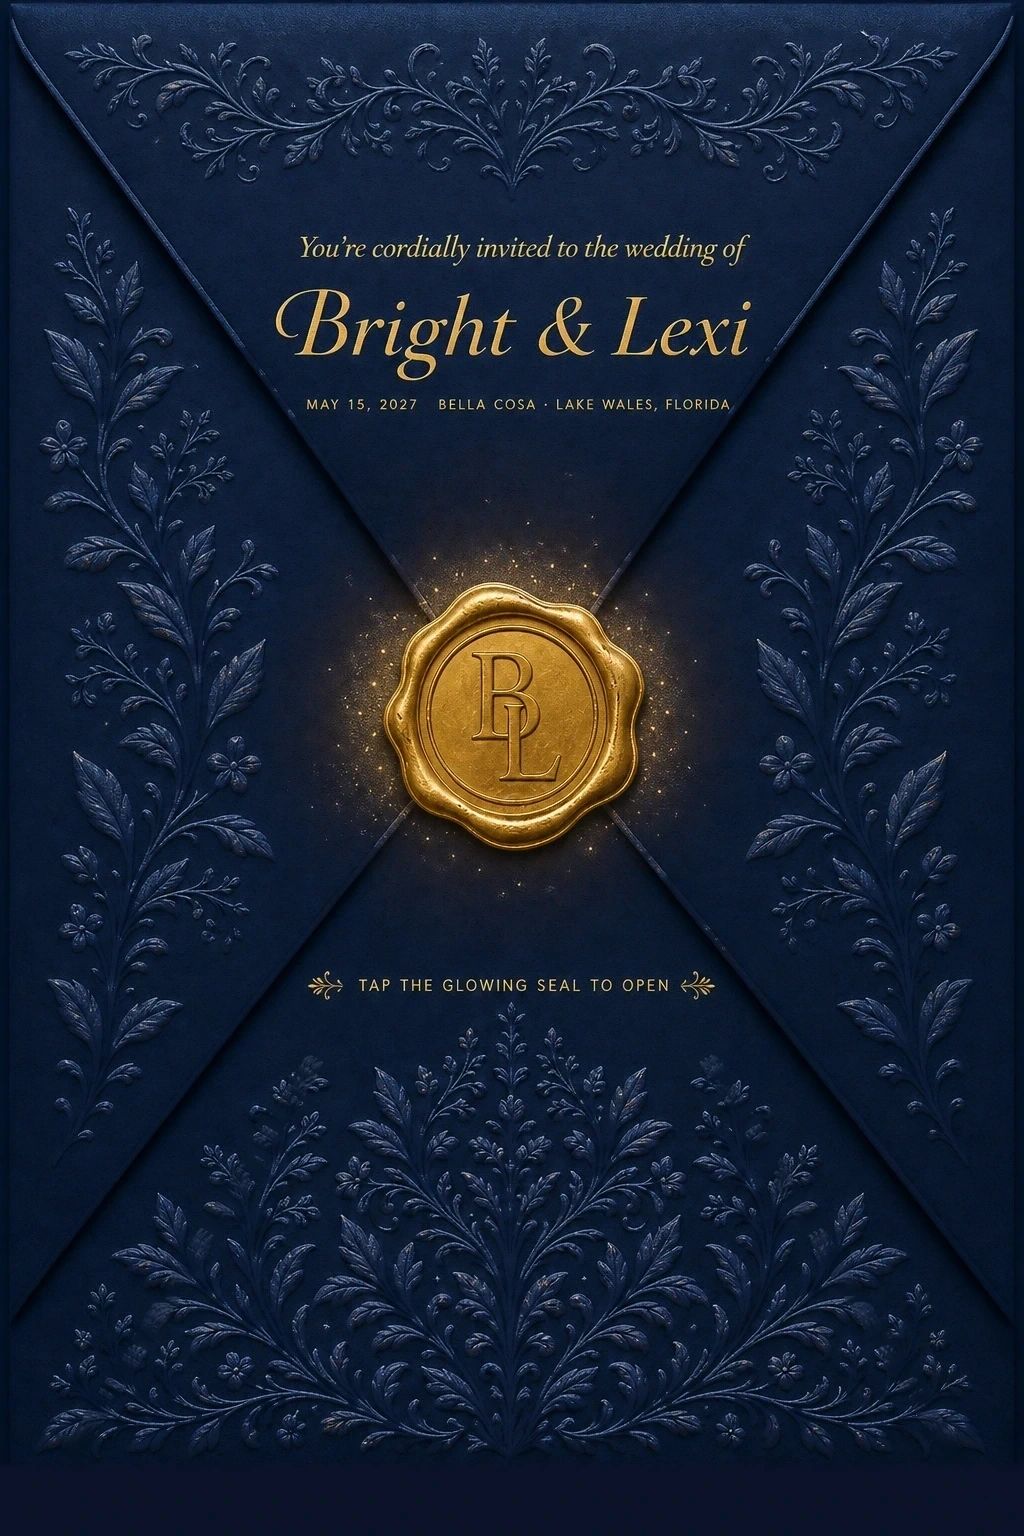
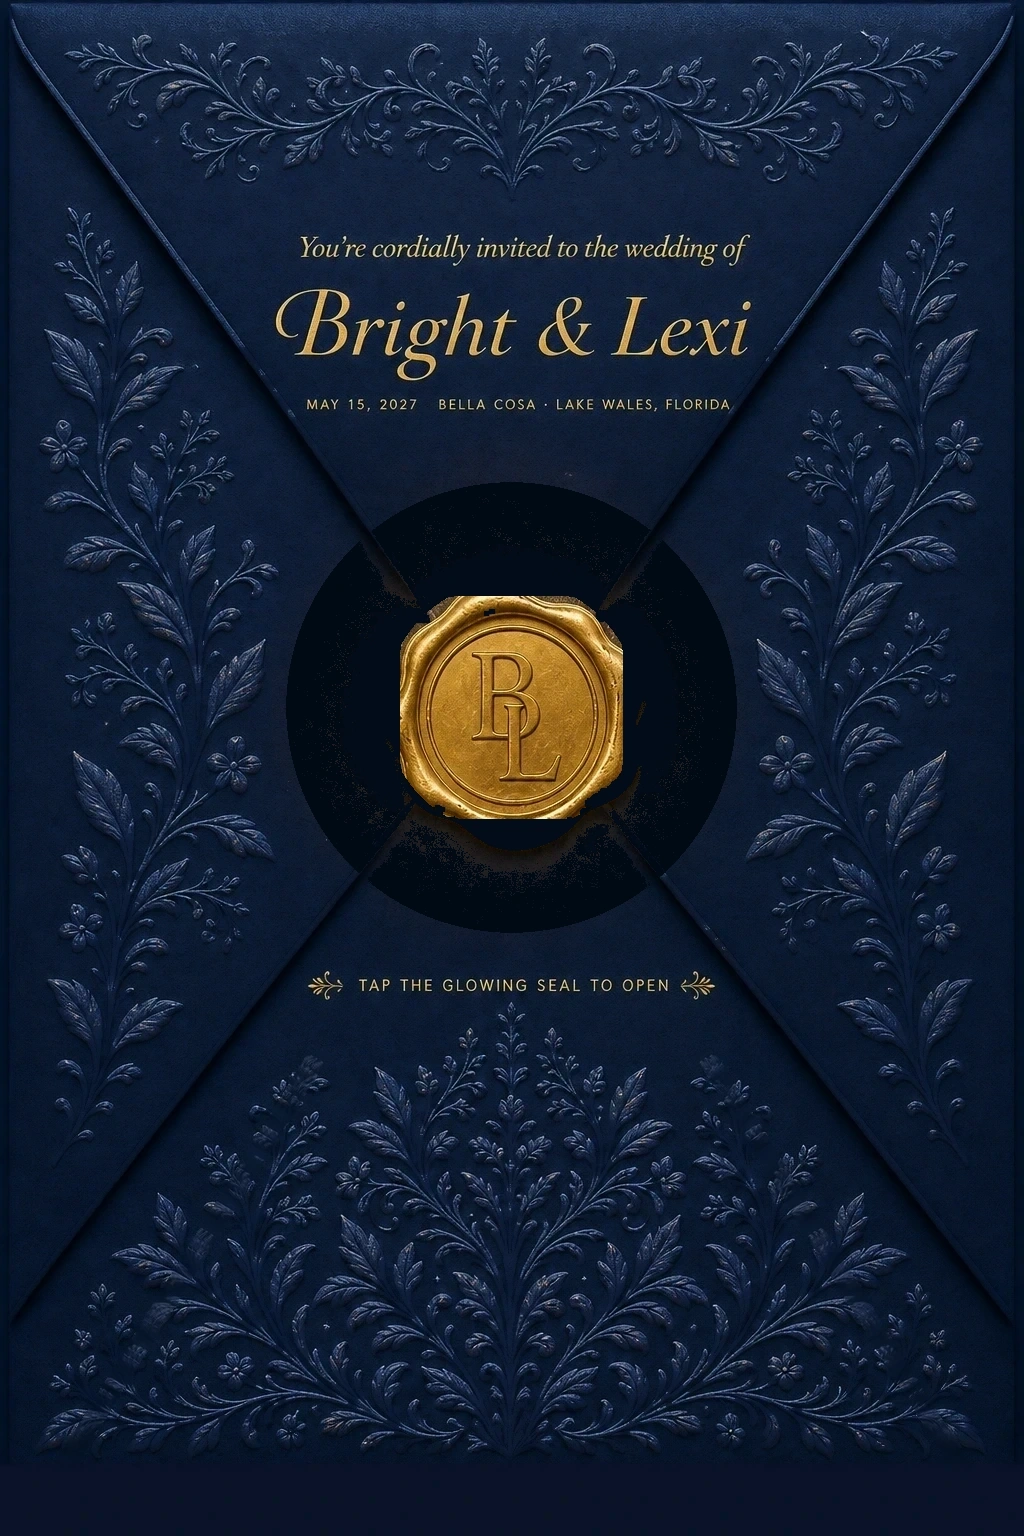
Restore top/bottom emboss glow and remove seal glitter
Restore floral glow coverage from the pre-crease-scrub baseline so the
top crest and bottom florals light fully to the outer edges, boost those
zones, and widen the CSS radial reveal. Scrub glitter spray from the
closed master and seal monogram overlay while protecting the wax disc,
and tighten the monogram mask so glow stays on the seal.

Changed region(s): [[0.2812, 0.3125, 0.7188, 0.625]]

diff --git a/app/globals.css b/app/globals.css
@@ -391,15 +391,15 @@
     pointer-events: none;
     z-index: 2;
     filter: none;
-    /* Only shave the razor top edge — keep the top embossed crest */
-    clip-path: inset(0.35% 0 0 0);
+    /* Keep full top crest visible — do not clip emboss tips */
+    clip-path: none;
     -webkit-mask-image: radial-gradient(
       circle,
       #000 0%,
-      #000 72%,
+      #000 88%,
       transparent 100%
     );
-    mask-image: radial-gradient(circle, #000 0%, #000 72%, transparent 100%);
+    mask-image: radial-gradient(circle, #000 0%, #000 88%, transparent 100%);
     -webkit-mask-repeat: no-repeat;
     mask-repeat: no-repeat;
     -webkit-mask-position: var(--intro-seal-x, 49.91%) var(--intro-seal-y, 46.08%);
@@ -416,8 +416,9 @@
     opacity: 1;
     /* Bright gold on emboss overlay only — paper stays unfiltered */
     filter: brightness(1.55) saturate(1.25) contrast(1.08);
-    -webkit-mask-size: 300% 300%;
-    mask-size: 300% 300%;
+    /* Oversized so top crest + bottom florals fully clear the fade edge */
+    -webkit-mask-size: 360% 360%;
+    mask-size: 360% 360%;
   }
 
   .envelope-floral-glow-face.is-lit {
@@ -533,18 +534,18 @@
   }
 
   .intro-monogram-glow.is-lit {
-    opacity: 0.96;
-    filter: brightness(1.08) saturate(1.08);
-    /* Wide enough to cover the full wax disc in the master art */
-    -webkit-mask-size: 42% 30%;
-    mask-size: 42% 30%;
+    opacity: 0.9;
+    filter: brightness(1.05) saturate(1.05);
+    /* Tight to the wax disc — no glitter spray beyond the seal */
+    -webkit-mask-size: 22% 16%;
+    mask-size: 22% 16%;
   }
 
   /* Idle twinkle on the full seal before the first tap */
   .intro-monogram-glow.is-idle-twinkle {
-    opacity: 0.5;
-    -webkit-mask-size: 32% 22%;
-    mask-size: 32% 22%;
+    opacity: 0.4;
+    -webkit-mask-size: 20% 14%;
+    mask-size: 20% 14%;
     animation: intro-seal-twinkle 2.8s ease-in-out infinite;
   }
 
